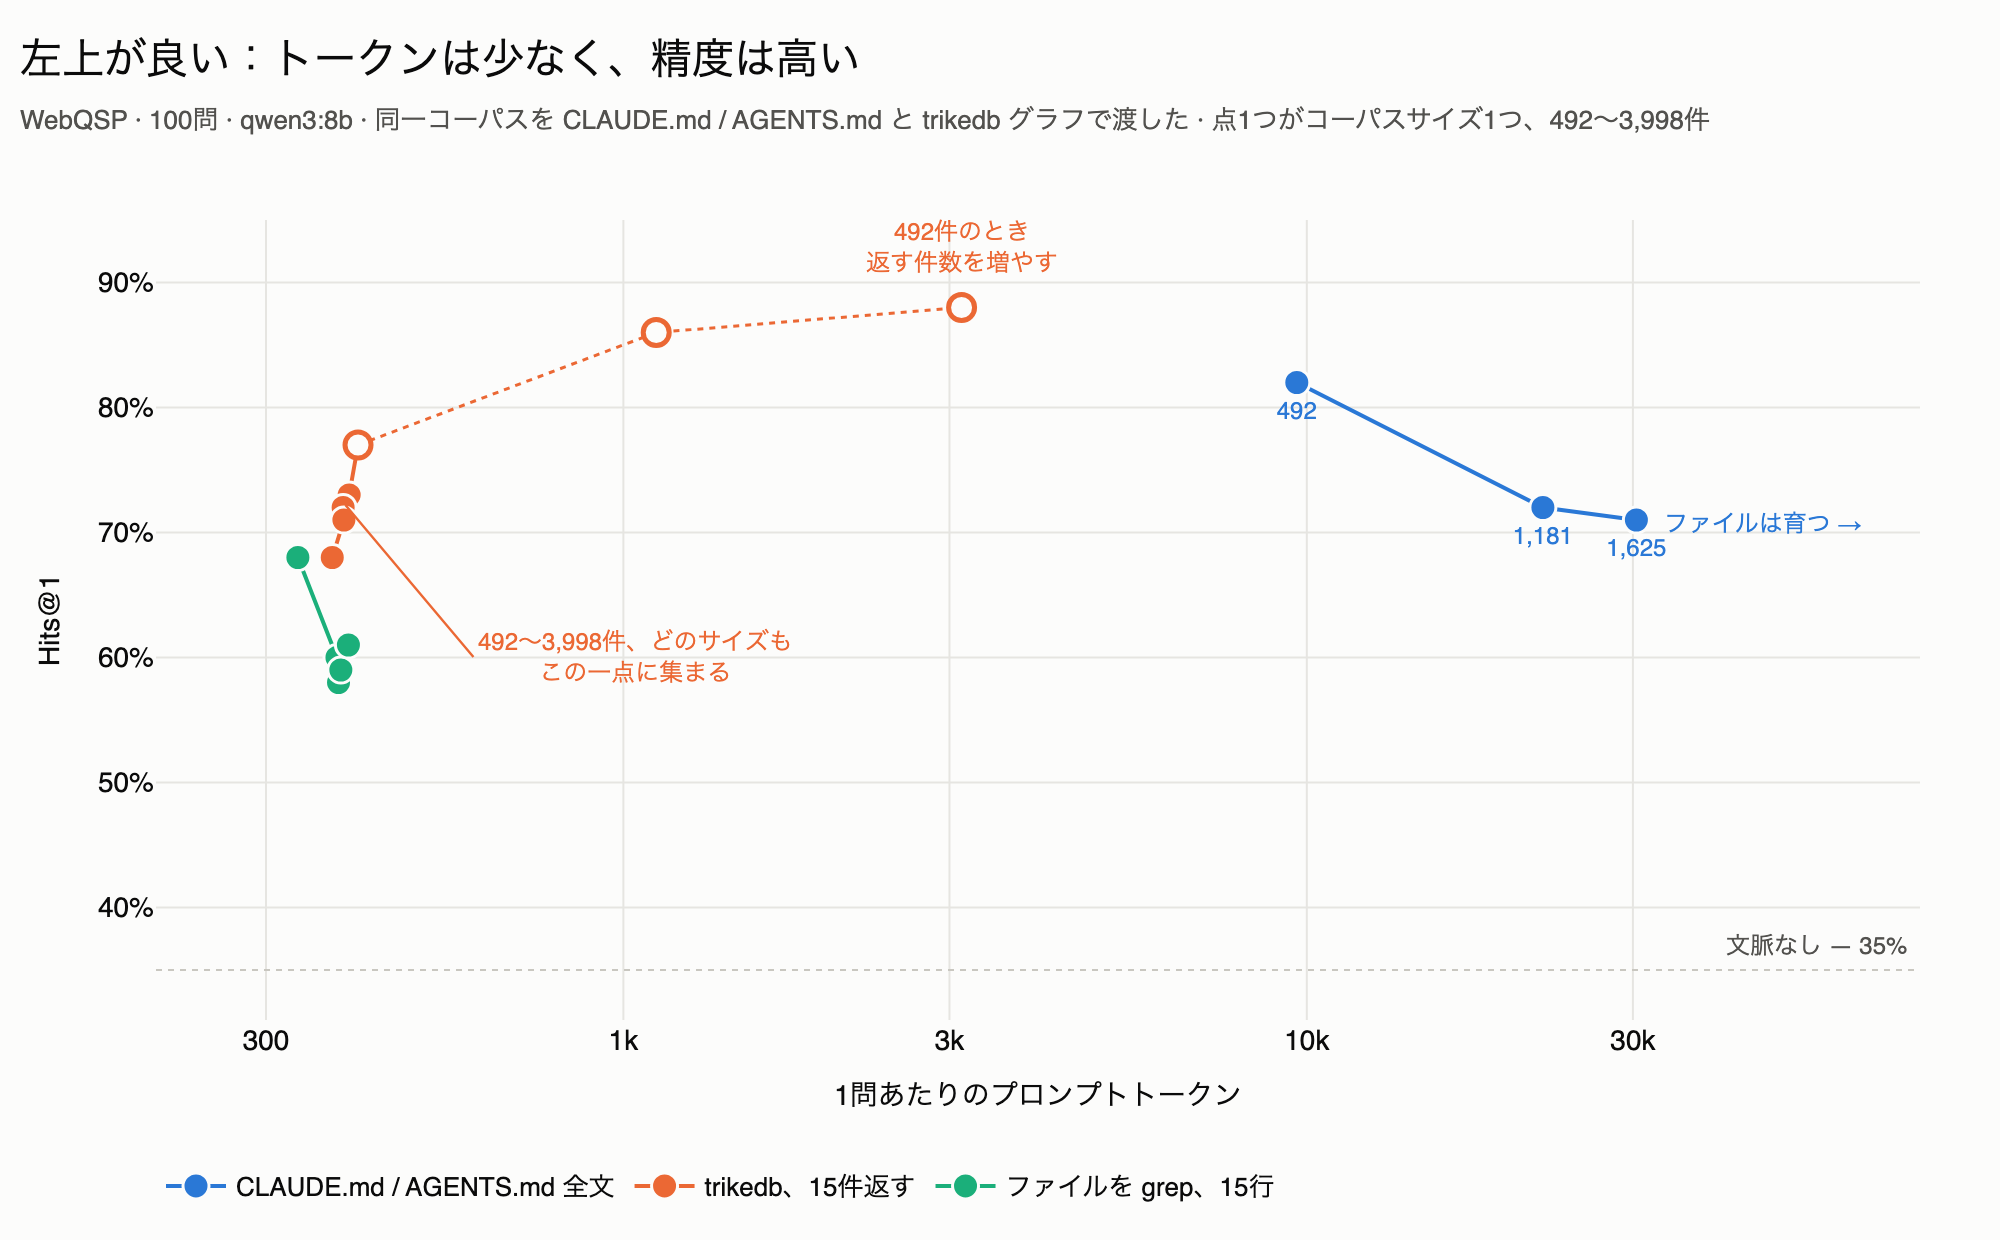
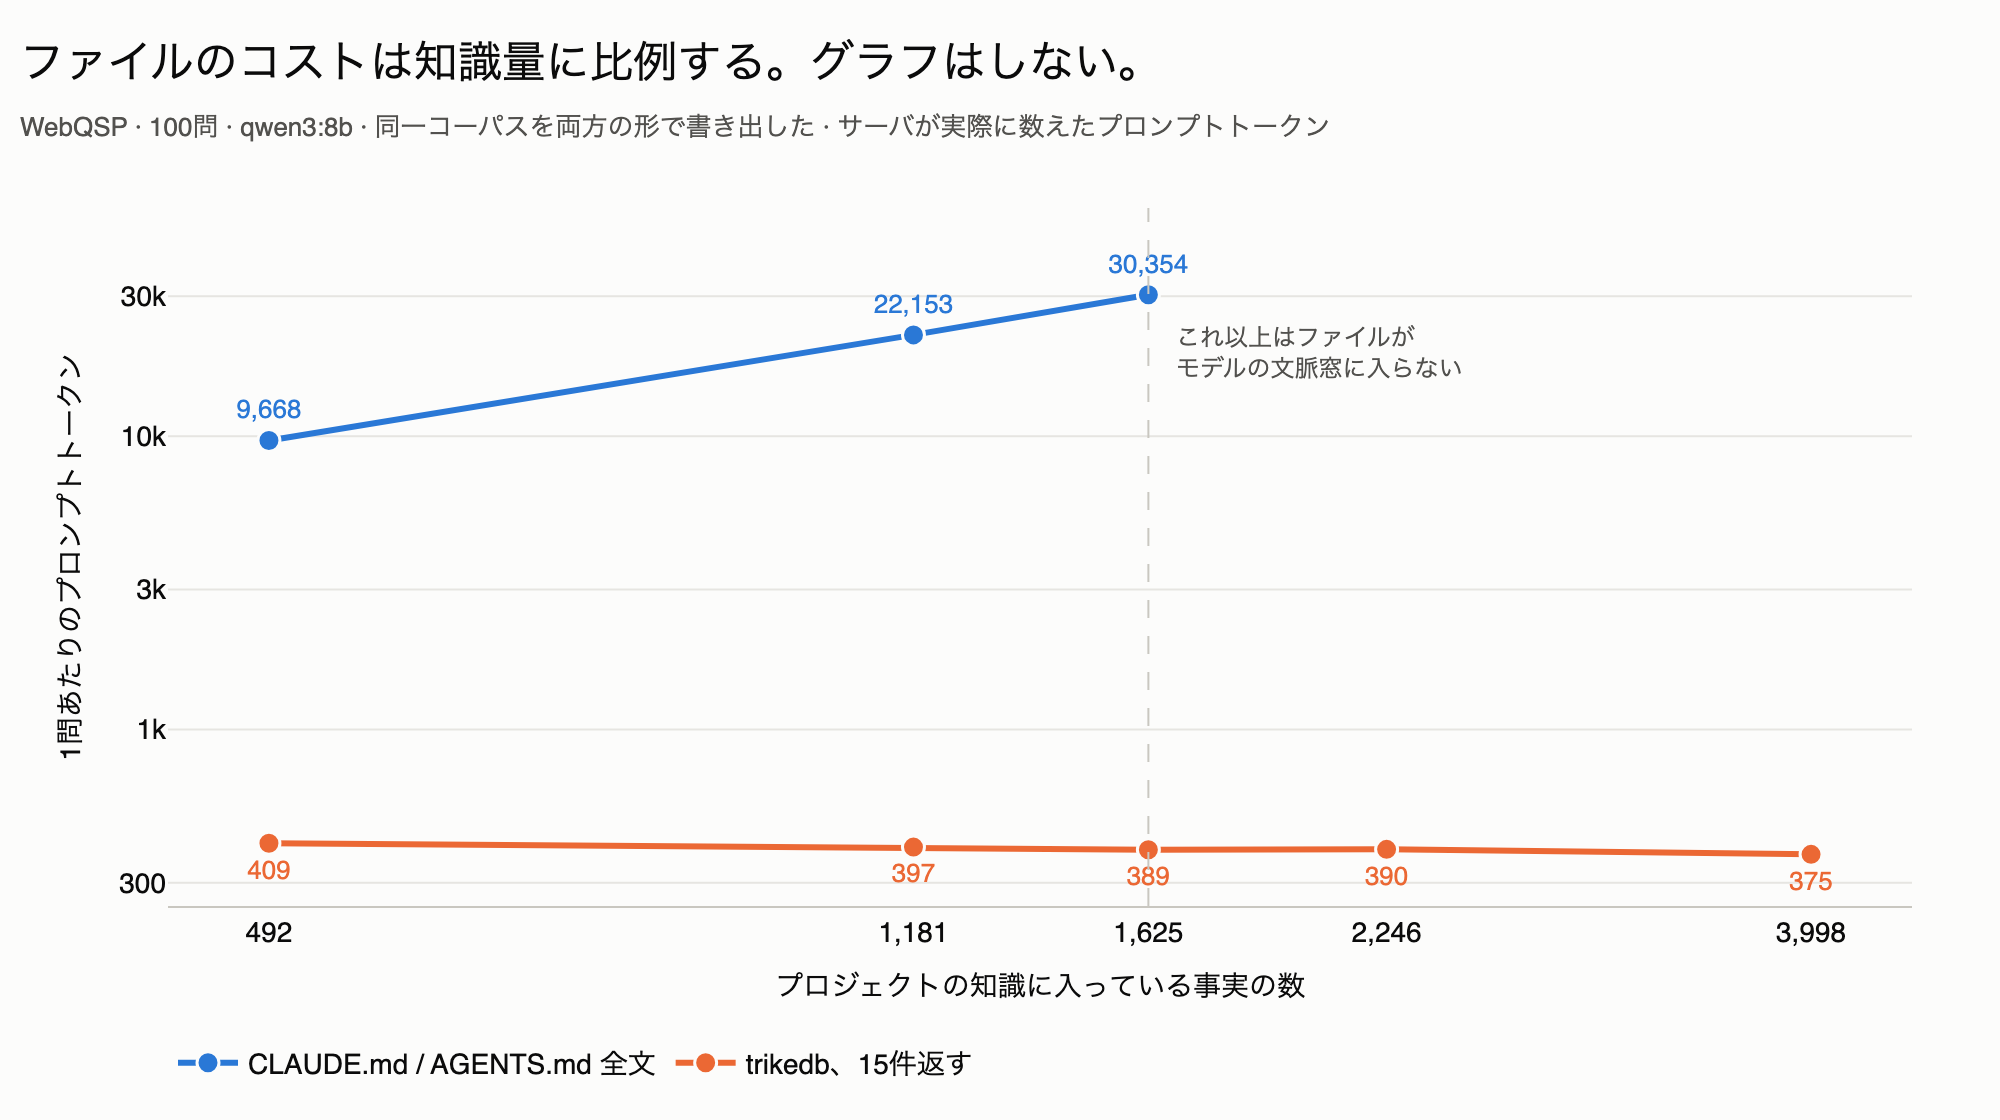
benchmarks: 図が一目で読めなかった。コストだけの1枚にした
コストと精度を1枚に詰めようとして2回失敗した。最初は2パネル、次はコスト-品質の
散布図。どちらも「著者以外が数秒で何を見ているか言えるか」で落ちた。

散布図の落ち方は記録しておく価値がある。系列ごとに点の数が違い(ファイル3、
グラフ5)、グラフの5点は35トークン以内に固まって一塊に見え、ラベルが付いて
いるのはファイル側だけだった。どれも単体では正しく、合わせると読めなかった。

なのでこの図は1問が答える。コストは知識量に比例するのか。2本の線、全点に数値、
以上。精度は README の表に置いた。数字を読んでいる人がそこにいる。grep 対照も
外した。あれは別の問いへの答えで、表なら2つの数字で済む。

diff --git a/benchmarks/memory_chart.py b/benchmarks/memory_chart.py
@@ -1,20 +1,25 @@
-"""Render memory_data.json as a cost-quality plot: tokens against accuracy.
+"""Render memory_data.json as one line: what a question costs, as knowledge grows.
 
     python benchmarks/memory_bench.py sweep bench_out/memory \
         --json benchmarks/memory_data.json
     python benchmarks/memory_chart.py            # -> benchmarks/memory.png
 
-One panel, not two. An earlier version stacked tokens over accuracy on a
-shared x axis of corpus size, and it asked the reader to hold a point in the
-top panel against the point below it and do the division — which is the whole
-finding, performed in the reader's head. Here both quantities are position:
-tokens across, accuracy up, so **up and to the left is better** and "the same
-answers for fewer tokens" becomes a place on the page rather than arithmetic.
+Two series, one axis pair, a number printed on every point. Nothing else.
 
-It also separates what the line chart merged. Plotted against corpus size the
-grep control sat within a few hundred tokens of the graph and the two curves
-overlapped; plotted against accuracy they are far apart vertically, which is
-the difference that actually matters.
+Two earlier versions tried to carry cost and accuracy in one figure — first as
+stacked panels, then as a cost-quality scatter — and both failed the only test
+that matters, which is whether a reader who is not the author can say what
+they are looking at within a few seconds. The scatter failed in a specific
+way worth recording: the series had different numbers of points (three sizes
+for the file, five for the graph), the graph's five landed within 35 tokens of
+each other and so read as one blob, and only the file's points carried
+labels. Every one of those was defensible and together they were unreadable.
+
+So this figure answers one question — **does the cost grow with the
+project?** — and the accuracy numbers live in the table in README.md, where a
+reader is already reading numbers. `md_grep` is left out for the same reason:
+it settles a different question (is it the retrieval or the graph) and the
+table settles it in two numbers.
 
 Needs plotly and kaleido:  pip install plotly kaleido
 """
@@ -35,172 +40,110 @@ INK_MUTED = "#52514e"
 GRID = "#e6e5e1"
 RULE = "#c9c7c0"
 
-#: Blue is the file, orange the graph, green the text-retrieval control — the
-#: same meanings these hues carry in every other figure in this directory.
+#: Blue is the file, orange the graph — the same meanings these hues carry in
+#: every other figure in this directory.
 MD = "#2a78d6"
 GRAPH = "#eb6834"
-MD_GREP = "#1baf7a"
 
 TEXT = {
     "en": {
-        "title": "Up and to the left is better: fewer tokens, better answers",
-        "sub": ("WebQSP · 100 questions · qwen3:8b · one corpus delivered as a "
-                "CLAUDE.md / AGENTS.md and as a trikedb graph · each point is "
-                "one corpus size, 492 to 3,998 facts"),
-        "x": "prompt tokens per question", "y": "Hits@1",
+        "title": "The file's cost grows with the project. The graph's does not.",
+        "sub": ("WebQSP · 100 questions · qwen3:8b · one corpus, written out "
+                "both ways · prompt tokens the server actually counted"),
+        "x": "facts in the project's knowledge",
+        "y": "prompt tokens per question",
         "md": "the whole CLAUDE.md / AGENTS.md",
         "graph": "trikedb, 15 facts returned",
-        "md_grep": "grep the file, 15 lines",
-        "tuned": "trikedb at 492 facts,<br>returning more",
-        "none": "no context at all — {floor:.0f}%",
-        "grow": "the file grows →",
-        "flat": "every corpus size, 492 to 3,998 facts,<br>lands in this one spot",
+        "stop": "past here the file no longer<br>fits the model's context window",
     },
     "jp": {
-        "title": "左上が良い：トークンは少なく、精度は高い",
-        "sub": ("WebQSP · 100問 · qwen3:8b · 同一コーパスを CLAUDE.md / AGENTS.md "
-                "と trikedb グラフで渡した · 点1つがコーパスサイズ1つ、492〜3,998件"),
-        "x": "1問あたりのプロンプトトークン", "y": "Hits@1",
+        "title": "ファイルのコストは知識量に比例する。グラフはしない。",
+        "sub": ("WebQSP · 100問 · qwen3:8b · 同一コーパスを両方の形で書き出した · "
+                "サーバが実際に数えたプロンプトトークン"),
+        "x": "プロジェクトの知識に入っている事実の数",
+        "y": "1問あたりのプロンプトトークン",
         "md": "CLAUDE.md / AGENTS.md 全文",
         "graph": "trikedb、15件返す",
-        "md_grep": "ファイルを grep、15行",
-        "tuned": "492件のとき<br>返す件数を増やす",
-        "none": "文脈なし — {floor:.0f}%",
-        "grow": "ファイルは育つ →",
-        "flat": "492〜3,998件、どのサイズも<br>この一点に集まる",
+        "stop": "これ以上はファイルが<br>モデルの文脈窓に入らない",
     },
     "zh": {
-        "title": "越靠左上越好：token 更少，答得更准",
-        "sub": ("WebQSP · 100 题 · qwen3:8b · 同一份语料分别以 CLAUDE.md / "
-                "AGENTS.md 和 trikedb 图谱交付 · 每个点是一种语料规模，492〜3,998 条"),
-        "x": "每题的提示词 token 数", "y": "Hits@1",
+        "title": "文件的成本随项目增长，图谱的不会。",
+        "sub": ("WebQSP · 100 题 · qwen3:8b · 同一份语料写成两种形态 · "
+                "服务端实际统计的提示词 token"),
+        "x": "项目知识中的事实条数",
+        "y": "每题的提示词 token 数",
         "md": "整份 CLAUDE.md / AGENTS.md",
         "graph": "trikedb，返回 15 条",
-        "md_grep": "grep 文件，15 行",
-        "tuned": "492 条语料下<br>增加返回条数",
-        "none": "没有任何上下文 — {floor:.0f}%",
-        "grow": "文件不断变大 →",
-        "flat": "492〜3,998 条，任何规模<br>都落在这一个位置",
+        "stop": "再大文件就装不进<br>模型的上下文窗口",
     },
 }
 
 
 def main(lang: str = "en") -> None:
+    words = TEXT[lang]
     rows = json.loads((HERE / "memory_data.json").read_text())
     warm = [r for r in rows if "/cold" not in r["condition"]]
-    floor = next((r["hits_at_1"] for r in warm if r["condition"] == "none"), 0)
-    words = {k: v.format(floor=floor) if "{floor" in v else v
-             for k, v in TEXT[lang].items()}
 
     def series(name):
         return sorted((r for r in warm if r["condition"] == name),
                       key=lambda r: r["corpus_triples"])
 
     figure = go.Figure()
-
-    # Each condition is a path through the plane as the corpus grows. The
-    # file's runs down and to the right — dearer *and* worse — and the graph's
-    # barely moves, which is the finding stated as a shape rather than a ratio.
-    for name, color, label in (
-        ("md_grep", MD_GREP, lambda r, i, n: ""),
-        ("md", MD, lambda r, i, n: f"{r['corpus_triples']:,}"),
-        ("graph", GRAPH, lambda r, i, n: ""),
-    ):
+    for name, color, side in (("md", MD, "top center"),
+                              ("graph", GRAPH, "bottom center")):
         points = series(name)
-        if not points:
-            continue
         figure.add_trace(go.Scatter(
-            x=[r["median_prompt_tokens"] for r in points],
-            y=[r["hits_at_1"] for r in points],
+            x=[r["corpus_triples"] for r in points],
+            y=[r["median_prompt_tokens"] for r in points],
             mode="lines+markers+text", name=words[name],
-            legendrank={"md": 1, "graph": 2, "md_grep": 3}[name],
-            text=[label(r, i, len(points)) for i, r in enumerate(points)],
-            textposition="bottom center", cliponaxis=False,
-            textfont=dict(size=12, color=color),
-            line=dict(color=color, width=2),
-            marker=dict(size=13, color=color,
+            # Every point, not just the ends. Five numbers along a flat line
+            # is exactly the message — they are all the same number — and a
+            # reader who has to trust an annotation for that will not.
+            text=[f"{r['median_prompt_tokens']:,}" for r in points],
+            textposition=side, cliponaxis=False,
+            textfont=dict(size=13, color=color),
+            line=dict(color=color, width=3),
+            marker=dict(size=11, color=color,
                         line=dict(color=SURFACE, width=1.5)),
-            customdata=[r["corpus_triples"] for r in points],
-            hovertemplate=(f"{words[name]}<br>%{{customdata:,}} facts"
-                           "<br>%{x:,} tokens<br>%{y:.1f}%<extra></extra>"),
+            hovertemplate=(f"{words[name]}<br>%{{x:,}} facts"
+                           "<br>%{y:,} tokens<extra></extra>"),
         ))
 
-    # The knob, drawn only where it was measured. Returning more facts buys
-    # accuracy the file cannot buy at any price — it is already sending
-    # everything — and these points sit above *and* left of the file's best,
-    # which is the one comparison in the figure that is unambiguous.
-    tuned = sorted((r for r in warm if r["condition"].startswith("graph@")
-                    and r["corpus_triples"] == 492),
-                   key=lambda r: r["median_prompt_tokens"])
-    base = next((r for r in series("graph") if r["corpus_triples"] == 492), None)
-    if tuned and base:
-        chain = [base] + tuned
-        figure.add_trace(go.Scatter(
-            x=[r["median_prompt_tokens"] for r in chain],
-            y=[r["hits_at_1"] for r in chain],
-            mode="lines+markers", showlegend=False,
-            line=dict(color=GRAPH, width=1.5, dash="dot"),
-            marker=dict(size=13, color=SURFACE,
-                        line=dict(color=GRAPH, width=2.5)),
-            hovertemplate=("492 facts<br>%{x:,} tokens"
-                           "<br>%{y:.1f}%<extra></extra>"),
-        ))
-        figure.add_annotation(
-            x=math.log10(tuned[-1]["median_prompt_tokens"]),
-            y=tuned[-1]["hits_at_1"], yshift=30,
-            text=words["tuned"], showarrow=False,
-            font=dict(size=12, color=GRAPH))
-
-    figure.add_hline(y=floor, line=dict(color=RULE, width=1, dash="dot"))
-    figure.add_annotation(x=0.995, xref="x domain", y=floor, yshift=12,
-                          text=words["none"], showarrow=False,
-                          xanchor="right", font=dict(size=12, color=INK_MUTED))
-
+    sizes = sorted({r["corpus_triples"] for r in warm
+                    if r["condition"] != "none"})
     md_points = series("md")
-    if len(md_points) > 1:
+    if md_points and md_points[-1]["corpus_triples"] < max(sizes):
+        # Why the blue line stops. Without it the reader's first guess is that
+        # the measurement is missing, when in fact the configuration is: the
+        # rendered file is larger than the window the model has.
+        figure.add_vline(x=md_points[-1]["corpus_triples"],
+                         line=dict(color=RULE, width=1, dash="dash"))
         figure.add_annotation(
-            x=math.log10(md_points[-1]["median_prompt_tokens"]),
-            y=md_points[-1]["hits_at_1"], yshift=-2, xshift=12,
-            xanchor="left", text=words["grow"], showarrow=False,
-            font=dict(size=12, color=MD))
-    graph_points = series("graph")
-    if graph_points:
-        # Drawn with an arrow, because the grep control clusters in the same
-        # corner: a floating caption there could be read as belonging to
-        # either series, which is the one thing this figure must not be
-        # ambiguous about.
-        figure.add_annotation(
-            x=math.log10(sum(r["median_prompt_tokens"] for r in graph_points)
-                         / len(graph_points)),
-            y=sum(r["hits_at_1"] for r in graph_points) / len(graph_points),
-            text=words["flat"], showarrow=True, arrowhead=0, arrowwidth=1.2,
-            arrowcolor=GRAPH, ax=64, ay=76, xanchor="left",
-            font=dict(size=12, color=GRAPH))
+            x=math.log10(md_points[-1]["corpus_triples"]), xshift=12,
+            y=math.log10(md_points[-1]["median_prompt_tokens"]), yshift=-30,
+            xanchor="left", text=words["stop"], showarrow=False,
+            align="left", font=dict(size=12, color=INK_MUTED))
 
-    priced = [r for r in warm if r["condition"] != "none"]
     figure.update_layout(
         title=dict(
             text=(f"{words['title']}<br>"
                   f"<span style='font-size:13px;color:{INK_MUTED}'>"
                   f"{words['sub']}</span>"),
-            font=dict(size=21, color=INK), x=0.01, xanchor="left", y=0.94),
+            font=dict(size=22, color=INK), x=0.01, xanchor="left", y=0.93),
         paper_bgcolor=SURFACE, plot_bgcolor=SURFACE,
         font=dict(family="Helvetica, Arial, sans-serif", color=INK, size=14),
-        legend=dict(orientation="h", y=-0.17, x=0, font=dict(size=13)),
-        xaxis=dict(
-            type="log", gridcolor=GRID, zeroline=False,
-            title=dict(text=words["x"], font=dict(size=14)),
-            # Explicit ticks: across two decades plotly labels the minor ones
-            # too, and the axis reads "5 2 5 2" instead of round numbers.
-            tickvals=[300, 1_000, 3_000, 10_000, 30_000],
-            ticktext=["300", "1k", "3k", "10k", "30k"],
-            range=[math.log10(0.62 * min(r["median_prompt_tokens"] for r in priced)),
-                   math.log10(2.6 * max(r["median_prompt_tokens"] for r in priced))],
-        ),
-        yaxis=dict(gridcolor=GRID, zeroline=False, ticksuffix="%",
+        legend=dict(orientation="h", y=-0.18, x=0, font=dict(size=14)),
+        xaxis=dict(type="log", showgrid=False, zeroline=False, linecolor=RULE,
+                   tickvals=sizes, ticktext=[f"{s:,}" for s in sizes],
+                   title=dict(text=words["x"], font=dict(size=14))),
+        yaxis=dict(type="log", gridcolor=GRID, zeroline=False,
                    title=dict(text=words["y"], font=dict(size=14)),
-                   range=[floor - 4, 95]),
-        margin=dict(l=78, r=40, t=110, b=96), width=1000, height=620,
+                   # Explicit ticks: across two decades plotly labels the minor
+                   # ones too, and the axis reads "5 2 5 2" instead of numbers.
+                   tickvals=[300, 1_000, 3_000, 10_000, 30_000],
+                   ticktext=["300", "1k", "3k", "10k", "30k"],
+                   range=[math.log10(250), math.log10(60_000)]),
+        margin=dict(l=84, r=44, t=104, b=96), width=1000, height=560,
     )
     out = HERE / ("memory.png" if lang == "en" else f"memory_{lang}.png")
     figure.write_image(out, scale=2)

diff --git a/benchmarks/README_jp.md b/benchmarks/README_jp.md
@@ -56,7 +56,7 @@ p = 0.27）。リーダーを差し替えるなら、「分からなければそ
 （下のエージェントの節）。この表はHTTP1回で叩く素のモデルで、ファイルは単なる
 ペイロードなので名前に意味はありません。
 
-![トークンと精度の散布図、点1つがコーパスサイズ1つ](memory_jp.png)
+![コーパスが育つときの1問あたりトークン](memory_jp.png)
 
 | プロジェクトの事実数 | ナレッジファイル全文 | trikedb、15件返す |
 |---|---|---|

diff --git a/benchmarks/README_zh.md b/benchmarks/README_zh.md
@@ -52,7 +52,7 @@
 测过 —— Claude Code 用 `CLAUDE.md`，Codex 用 `AGENTS.md`（见下面的智能体一节）。
 这里这张表是一次 HTTP 调用背后的原始模型，文件只是一段载荷，叫什么名字无关紧要。
 
-![token 与准确率的散点图，每个点是一种语料规模](memory_zh.png)
+![语料变大时每题的提示词 token 数](memory_zh.png)
 
 | 项目中的事实条数 | 整份知识文件 | trikedb，返回 15 条 |
 |---|---|---|

diff --git a/benchmarks/README.md b/benchmarks/README.md
@@ -59,7 +59,7 @@ were measured in the one that reads them — `CLAUDE.md` in Claude Code,
 model behind one HTTP call, where the file is a payload and its name is
 arbitrary.
 
-![Prompt tokens against accuracy, one point per corpus size](memory.png)
+![Prompt tokens per question as the corpus grows](memory.png)
 
 | facts in the project | as a knowledge file | trikedb, 15 facts returned |
 |---|---|---|
